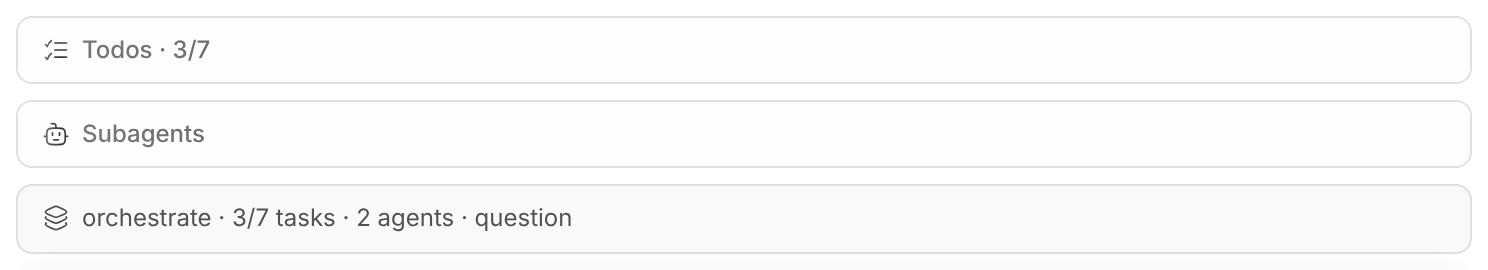
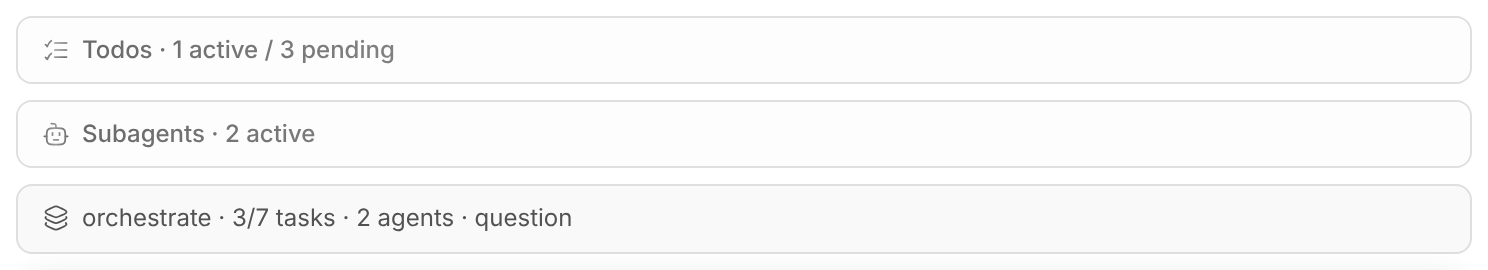
docs(bb): stack card rows share one shape and count active and pending work
Claude-Session: https://claude.ai/code/session_01MbvfwxLo2ULDWqmpcPBnJq

Changed region(s): [[0.0927, 0.1481, 0.2782, 0.237], [0.1546, 0.4741, 0.2164, 0.5333], [0.0309, 0.4741, 0.0618, 0.5333]]

diff --git a/docs/bb/ui-slots.md b/docs/bb/ui-slots.md
@@ -45,17 +45,20 @@ optional `dismiss`, `children`). Plugin banners sit above bb's own cards.
 
 Each card is one of the session's widget views (see
 [pi-surface](../../packages/pi-surface/README.md)), drawn by the plugin's
-generic renderer: **Todos** is `todo.widget` (`Todos · 3/7`, active while a task
-is in progress) and **Subagents** is `subagent.widget` (running, waiting and
-just-finished agents with their latest activity). The title is the widget's
-title and its fullest meta. Rows read as the terminal draws them at full
-width: the left line, then the fullest right-column fallback, with state glyphs
-as bb's icons in place. A subagent row is its clock, the agent type in bold,
-the description and, at the right, the spinner and activity; the clock carries
-its start time, so bb keeps it running between snapshots. A row whose most
-compact form is only its state glyph, a task, shows that state as its leading
-icon instead (a check, a spinner, a lock, a circle…), and a finished task is
-struck through.
+generic renderer: **Todos** is `todo.widget` (`Todos · 1 active / 3 pending`,
+active while a task is in progress) and **Subagents** is `subagent.widget`
+(`Subagents · 2 active`: running, waiting and just-finished agents with their
+latest activity). The title is the widget's title and its fullest meta; both
+widgets count active and pending work the same way, leaving out a zero.
+
+Every row has one shape: its state as bb's icon, always first and under the
+card header's icon, in the colour of the terminal's glyph (a check, a spinner, a
+lock, a circle…); the row's lead; its text, with the key or agent type always
+bold; and at the right the rest of the fullest status the terminal draws there.
+A task row is its icon, `key: subject` and its status label, with the agent
+holding it first (`→ agent a3f2b1c4 · in_progress`). A subagent row is its
+icon, its clock, `type: description` and its activity; the clock carries its
+start time, so bb keeps it running between snapshots.
 A widget with nothing to show draws no card. The plugin keeps only a small
 table of which widget gets a card and which bb icon it has.
 
